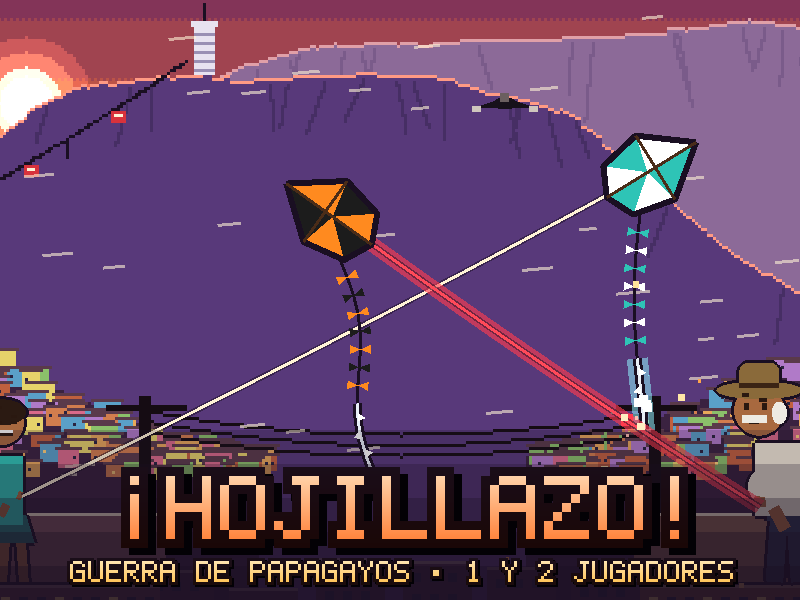
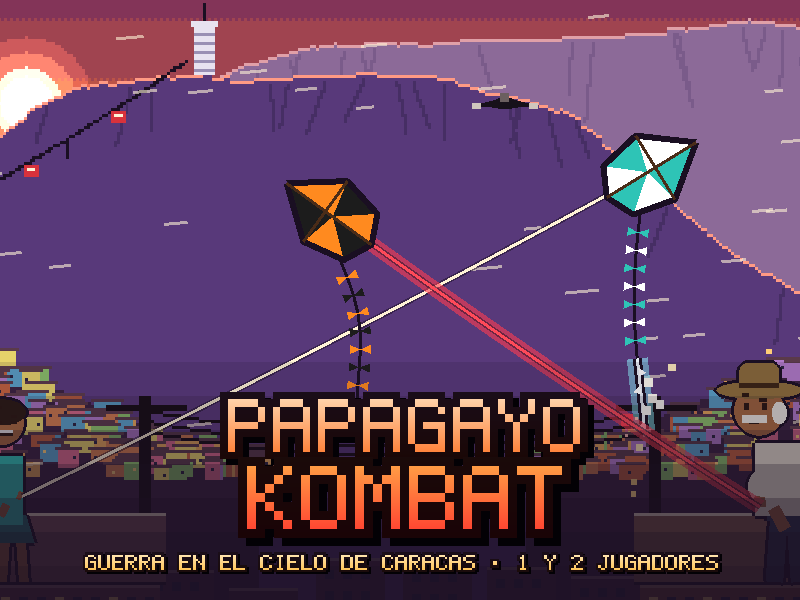
feat: rename to PAPAGAYO KOMBAT with chiptune music
Rebrand the logo, opening, cover and metadata as PAPAGAYO KOMBAT, and
replace the joropo with an 8-bit chiptune (square lead, triangle bass,
noise drums) that speeds up in the last ten seconds and sudden death.
The Karplus-Strong strings are gone. Storage keys keep the papagayos
prefix so saved data still loads.

diff --git a/game.js b/game.js
@@ -1,4 +1,4 @@
-// ¡HOJILLAZO! Guerra de papagayos — Platanus Hack 26 Caracas Edition
+// PAPAGAYO KOMBAT: Guerra en el cielo de Caracas — Platanus Hack 26 Caracas Edition
 // Kite duel over Caracas: sweep your tail's blade (the hojilla) across the rival's string to cut it.
 
 // The whole game lives in one function scope (left unindented) so the minifier can shorten every name.
@@ -1802,22 +1802,26 @@ const SOUNDS = {
   power: notes(POWER_UP, 0.25),
 };
 const ATTACK = 0.006;
-// Joropo in D under the action: one 6/8 bar of six eighths per chord (I IV V7 I). The bass alternates 3/4 and 6/8
-// bars (sesquiáltera); the cuatro strums every eighth and chops the third of each beat ("chas"); maracas shake on
-// every eighth; the arpa walks the chord. `beat` is the eighth (s) per mood: a calm title, the duel, the hot end.
-const JOROPO = { roots: [50, 55, 57, 50], seventh: 2, beat: { calm: 0.16, duel: 0.145, hot: 0.125 }, level: 0.3, ahead: 0.3, every: 50 };
-const CHORD_TONES = [0, 4, 7, 12];
-const SEVENTH_TONES = [0, 4, 7, 10];
-const ARPA_WALK = [0, 1, 2, 3, 2, 1];
-const BASS_HITS = [[0, 2, 4], [0, 3]];
+// Chiptune under the action, in sixteenth steps (16 per bar). The lead's hook is four bars of A minor (Am F C G),
+// played twice with a cadence bar closing the second pass; one letter per step is a note ('a' = A4, a semitone
+// each) held until the next one, '.' holds. `step` is the sixteenth (s) per mood: the title, the duel, the hot end.
+const CHIP = { step: { calm: 0.1, duel: 0.094, hot: 0.082 }, level: 0.42, ahead: 0.3, every: 50 };
+const LEAD = ['m.hm.pom.k.h.fh.', 'i.di.mki.h.d.fh.', 'h.kp.opr.p.k.hk.', 'o.kf.kor.rpomkhf', 'h.ko.m.km...m...'];
+const PHRASE = [0, 1, 2, 3, 0, 1, 2, 4];
+const ROOTS = [45, 41, 48, 43, 45];
+// Drum voices (the noise channel, plus a low sine kick).
+const DRUMS = {
+  kick: ['sine', 55, 'lowpass', 200, 200, 0.8, 0.12],
+  snare: ['noise', 0, 'bandpass', 1800, 900, 0.45, 0.12],
+  hat: ['noise', 0, 'highpass', 8000, 8000, 0.12, 0.03],
+};
 
-/** Light synthesised SFX and the joropo; silent without an AudioContext and never needed to play. */
+/** Light synthesised SFX and the chiptune; silent without an AudioContext and never needed to play. */
 const createSfx = (ctx) => {
   if (!ctx) return { play() {}, music() {} };
   const master = ctx.createGain();
   const band = ctx.createGain();
   const noise = ctx.createBuffer(1, ctx.sampleRate, ctx.sampleRate);
-  const strings = {};
   master.gain.value = 0.5;
   band.gain.value = 0;
   master.connect(ctx.destination);
@@ -1842,37 +1846,22 @@ const createSfx = (ctx) => {
     source.stop(start + duration);
   };
 
-  /** A plucked string (Karplus-Strong, rendered once per note), faded out over `length` s. */
-  const pluck = (midi, start, gain, length) => {
-    const hz = midiToHz(midi);
-    const period = round(ctx.sampleRate / hz);
-    if (!strings[midi]) {
-      const buffer = ctx.createBuffer(1, ctx.sampleRate, ctx.sampleRate);
-      const wave = buffer.getChannelData(0);
-      for (let i = 0; i < wave.length; i += 1) wave[i] = i < period ? Math.random() * 2 - 1 : 0.498 * (wave[i - period] + wave[i - period + 1]);
-      strings[midi] = buffer;
+  /** One sixteenth: square lead, bouncing triangle bass on the eighths, and the drums (busier when hot). */
+  const sixteenth = (count, start, mood, step) => {
+    const at = count % 16;
+    const bar = PHRASE[floor(count / 16) % PHRASE.length];
+    const line = LEAD[bar];
+    const hot = mood === 'hot';
+    const play = (spec) => voice(spec, start, band);
+    if (line[at] !== '.') {
+      let hold = 1;
+      while (at + hold < 16 && line[at + hold] === '.') hold += 1;
+      play(['square', midiToHz(line.charCodeAt(at) - 28 + (hot ? 12 : 0)), 'lowpass', 4000, 1500, hot ? 0.12 : 0.16, hold * step * 0.9]);
     }
-    const source = assign(ctx.createBufferSource(), { buffer: strings[midi] });
-    source.playbackRate.value = (hz * (period + 0.5)) / ctx.sampleRate;
-    const amp = ctx.createGain();
-    amp.gain.setValueAtTime(gain, start);
-    amp.gain.linearRampToValueAtTime(0, start + length);
-    source.connect(amp).connect(band);
-    source.start(start);
-    source.stop(start + length);
-  };
-
-  /** One eighth of the joropo. */
-  const eighth = (count, start, mood) => {
-    const at = count % 6;
-    const bar = floor(count / 6) % JOROPO.roots.length;
-    const root = JOROPO.roots[bar];
-    const tones = bar === JOROPO.seventh ? SEVENTH_TONES : CHORD_TONES;
-    const downbeat = at % 3 === 0;
-    if (BASS_HITS[bar % 2].includes(at)) pluck(root - 12 + (at ? 7 : 0), start, 0.8, 0.5);
-    tones.forEach((tone, i) => pluck(root + tone, start + i * 0.012, downbeat ? 0.32 : 0.2, at % 3 === 2 ? 0.05 : 0.3));
-    voice(['noise', 0, 'highpass', 6000, 6000, downbeat ? 0.3 : 0.15, downbeat ? 0.09 : 0.04], start, band);
-    if (mood !== 'calm' || at % 2 === 0) pluck(root + 12 + tones[ARPA_WALK[at]] + (mood === 'hot' && at % 2 ? 12 : 0), start, 0.45, 0.8);
+    if (at % 2 === 0) play(['triangle', midiToHz(ROOTS[bar] + (at % 4 ? 12 : 0)), 'lowpass', 1200, 600, 0.5, step * 1.8]);
+    if (at % (hot ? 4 : 8) === 0) play(DRUMS.kick);
+    if (mood !== 'calm' && (at % 8 === 4 || (hot && bar === 3 && at > 11))) play(DRUMS.snare);
+    if (hot || at % 2 === 0) play(DRUMS.hat);
   };
 
   // A lookahead scheduler on the audio clock: one loop for the whole game, so moods switch without stacking.
@@ -1881,18 +1870,19 @@ const createSfx = (ctx) => {
   let next = 0;
   setInterval(() => {
     if (!mood || ctx.state !== 'running') return;
+    const step = CHIP.step[mood];
     next = max(next, ctx.currentTime + 0.05);
-    for (; next < ctx.currentTime + JOROPO.ahead; next += JOROPO.beat[mood]) eighth(count++, next, mood);
-  }, JOROPO.every);
+    for (; next < ctx.currentTime + CHIP.ahead; next += step) sixteenth(count++, next, mood, step);
+  }, CHIP.every);
 
   return {
     play: (name) => SOUNDS[name].forEach((spec) => voice(spec)),
-    /** 'calm', 'duel' or 'hot' plays the joropo in that mood (from its first bar when it was silent); null fades it out. */
+    /** 'calm', 'duel' or 'hot' plays the chiptune in that mood (from its first bar when it was silent); null fades it out. */
     music(name) {
       if (name === mood) return;
       if (!mood) count = 0;
       mood = name;
-      band.gain.setTargetAtTime(name ? JOROPO.level : 0, ctx.currentTime, 0.05);
+      band.gain.setTargetAtTime(name ? CHIP.level : 0, ctx.currentTime, 0.05);
     },
   };
 };
@@ -2357,18 +2347,26 @@ class DuelLoop {
 // The attract demo: two CPU sparring partners fight behind the menu (bolder than any ladder rival, so a point
 // comes every few seconds) and start over after each match. Left idle for `idleMs`, the title plays the opening.
 const ATTRACT = { levels: [3, 5], rules: 'vidas', restartMs: 2500, idleMs: 30000, spar: { aggression: 1, guard: 0, pace: 1, stroke: 90 } };
-const LOGO = { y: 84, size: 5, sway: 0.04, swayMs: 1800 };
+// The logo stacks PAPAGAYO over a bigger, hotter KOMBAT and the subtitle; `lines` are their [y offset, size].
+const LOGO = { y: 84, lines: [[-44, 4], [20, 5], [76, 2]], shadow: PIXEL * 3, sway: 0.03, swayMs: 1800, kombat: 0xff3b2f };
 const RULE_NAMES = ['TIEMPO', 'VIDAS'];
 // The title menu sits on a dark backing so the demo kites flying behind it never hide its text.
 const TITLE_MENU = { y: 250, backing: { x: 200, y: 214, width: 400, height: 120 } };
 const attractLooks = () => ATTRACT.levels.map((level) => RIVAL_LOOKS[level]);
 
-/** The ¡HOJILLAZO! logo: warm chunky letters with a hard drop shadow over GUERRA DE PAPAGAYOS, swaying like a kite. */
+/** The PAPAGAYO KOMBAT logo, 90s fighting-game style: chunky letters with hard drop shadows, KOMBAT burning
+ * gold to red, over GUERRA EN EL CIELO DE CARACAS; it sways like a kite. */
 const addLogo = (scene) => {
-  const [shadow, logo] = [PIXEL * 4, 0].map((offset) => label(scene, offset, offset, '¡HOJILLAZO!', LOGO.size, INK));
-  shine(logo, 0xff7a2f);
-  const subtitle = shine(label(scene, 0, LOGO.y, 'GUERRA DE PAPAGAYOS', 2), GOLD);
-  const container = scene.add.container(W / 2, LOGO.y, [shadow, logo, subtitle]);
+  const parts = ['PAPAGAYO', 'KOMBAT', 'GUERRA EN EL CIELO DE CARACAS'].flatMap((text, i) => {
+    const [y, size] = LOGO.lines[i];
+    const offset = i < 2 ? LOGO.shadow : PIXEL;
+    const shadow = label(scene, offset, y + offset, text, size, INK);
+    const face = label(scene, 0, y, text, size);
+    if (i === 1) face.setTint(GOLD, GOLD, LOGO.kombat, LOGO.kombat);
+    else shine(face, i ? GOLD : 0xff7a2f);
+    return [shadow, face];
+  });
+  const container = scene.add.container(W / 2, LOGO.y, parts);
   pulse(scene, container, { rotation: { from: -LOGO.sway, to: LOGO.sway } }, LOGO.swayMs, 'Sine.easeInOut');
   return container;
 };
@@ -2409,7 +2407,7 @@ class TitleScene extends keyed('Title') {
   }
 }
 
-// The opening, in seconds (5 in all, over the joropo): fade in on the sun and pull back over Caracas; the kid
+// The opening, in seconds (5 in all, over the chiptune): fade in on the sun and pull back over Caracas; the kid
 // launches, the rival rises, the kid saws across its string (fraying it up to `fray` of its toughness) until it
 // snaps; then the logo slams in, `slamScale` times bigger, where the title shows it. Any button skips.
 const OPENING = {
